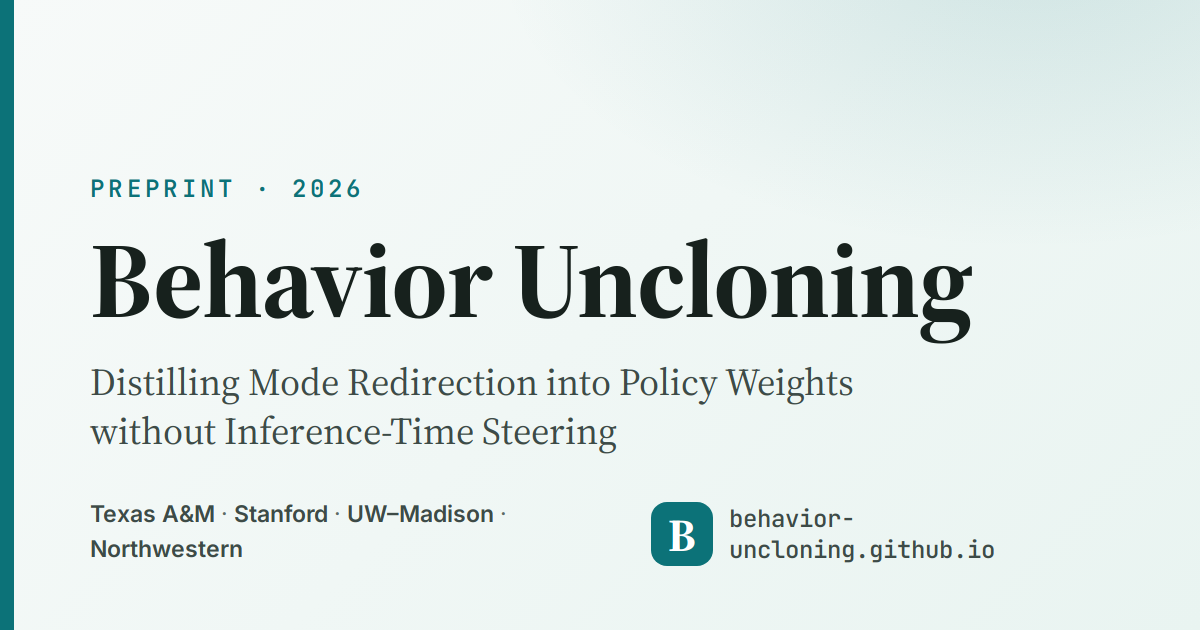
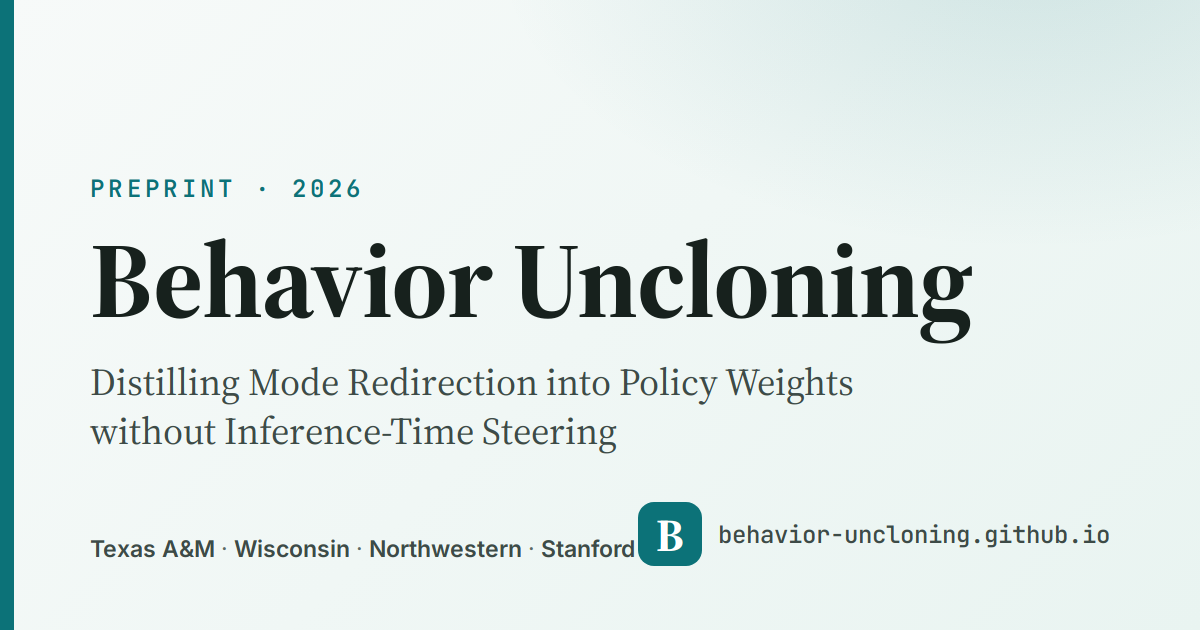
Fix social share card: correct affiliation order (TAMU, Wisconsin, Northwestern, Stanford)

Changed region(s): [[0.0617, 0.7841, 0.925, 0.9048]]

diff --git a/tools/og_card.html b/tools/og_card.html
@@ -42,7 +42,7 @@
     <h1>Behavior Uncloning</h1>
     <div class="sub">Distilling Mode Redirection into Policy Weights<br>without Inference-Time Steering</div>
     <div class="foot">
-      <div class="affil"><b>Texas A&amp;M</b> · <b>Stanford</b> · <b>UW–Madison</b> · <b>Northwestern</b></div>
+      <div class="affil"><b>Texas A&amp;M</b> · <b>Wisconsin</b> · <b>Northwestern</b> · <b>Stanford</b></div>
       <div class="url"><div class="tile">B</div><div class="txt">behavior-uncloning.github.io</div></div>
     </div>
   </div>